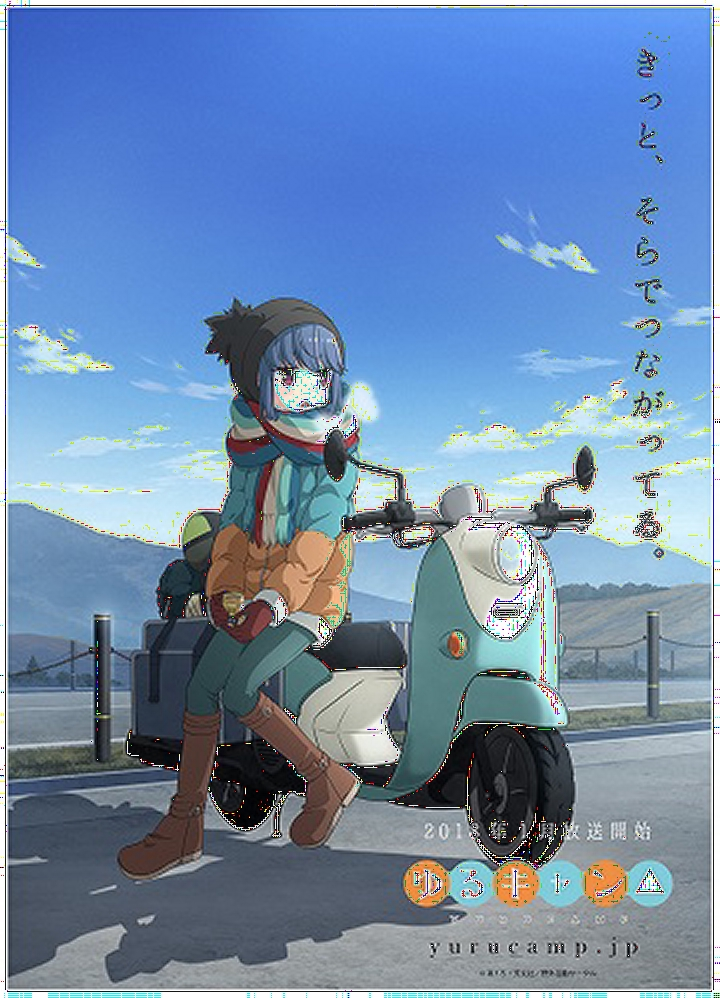
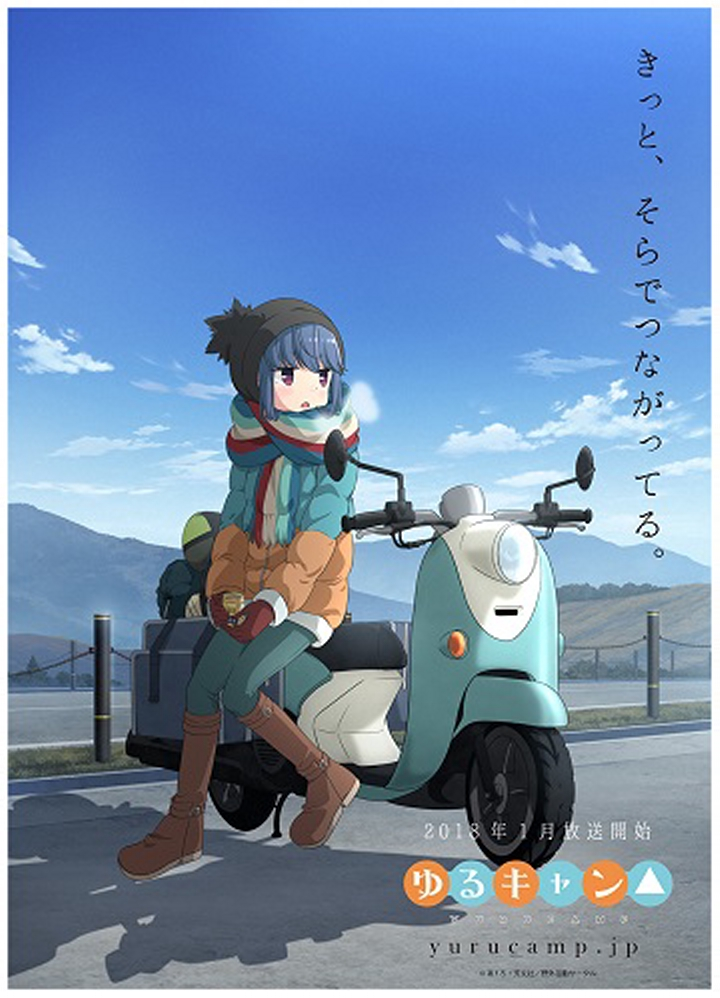
Modified Bicubic

diff --git a/main.go b/main.go
@@ -23,6 +23,9 @@ const (
 var a float64 = -1.0
 
 func calcWeightBicubic(t float64) float64 {
+	if t < 0 {
+		t = t * -1
+	}
 	if t <= 1 {
 		return (a+2)*t*t*t - (a+3)*t*t + 1
 	}
@@ -88,12 +91,12 @@ func bicubic(src image.Image, magnification float64, x, y int) color.Color {
 
 	dx[0] = calcWeightBicubic(originX - float64(x0-1))
 	dx[1] = calcWeightBicubic(originX - float64(x0))
-	dx[2] = calcWeightBicubic(float64(x0+1) - originX)
-	dx[3] = calcWeightBicubic(float64(x0+2) - originX)
+	dx[2] = calcWeightBicubic(originX - float64(x0+1))
+	dx[3] = calcWeightBicubic(originX - float64(x0+2))
 	dy[0] = calcWeightBicubic(originY - float64(y0-1))
 	dy[1] = calcWeightBicubic(originY - float64(y0))
-	dy[2] = calcWeightBicubic(float64(y0+1) - originY)
-	dy[3] = calcWeightBicubic(float64(y0+2) - originY)
+	dy[2] = calcWeightBicubic(originY - float64(y0+1))
+	dy[3] = calcWeightBicubic(originY - float64(y0+2))
 
 	weight := make([]float64, 16)
 
@@ -117,18 +120,24 @@ func bicubic(src image.Image, magnification float64, x, y int) color.Color {
 	weight[14] = dx[2] * dy[3]
 	weight[15] = dx[3] * dy[3]
 
-	newR := float64(0)
-	newG := float64(0)
-	newB := float64(0)
-	newA := float64(0)
+	newColor := make([]float64, 4)
 	for i := 0; i < 16; i++ {
-		newR = newR + float64(r[i]>>8)*weight[i]
-		newG = newG + float64(g[i]>>8)*weight[i]
-		newB = newB + float64(b[i]>>8)*weight[i]
-		newA = newA + float64(a[i]>>8)*weight[i]
+		newColor[0] = newColor[0] + float64(r[i]>>8)*weight[i]
+		newColor[1] = newColor[1] + float64(g[i]>>8)*weight[i]
+		newColor[2] = newColor[2] + float64(b[i]>>8)*weight[i]
+		newColor[3] = newColor[3] + float64(a[i]>>8)*weight[i]
+		//fmt.Printf("%d, %.30f\n", i, weight[i])
 	}
 
-	return color.RGBA{uint8(newR), uint8(newG), uint8(newB), uint8(newA)}
+	for i := 0; i < 4; i++ {
+		if newColor[i] < 0 {
+			newColor[i] = 0
+		} else if newColor[i] > 255 {
+			newColor[i] = 255
+		}
+	}
+
+	return color.RGBA{uint8(newColor[0]), uint8(newColor[1]), uint8(newColor[2]), uint8(newColor[3])}
 }
 
 func bilinear(src image.Image, magnification float64, x, y int) color.Color {
